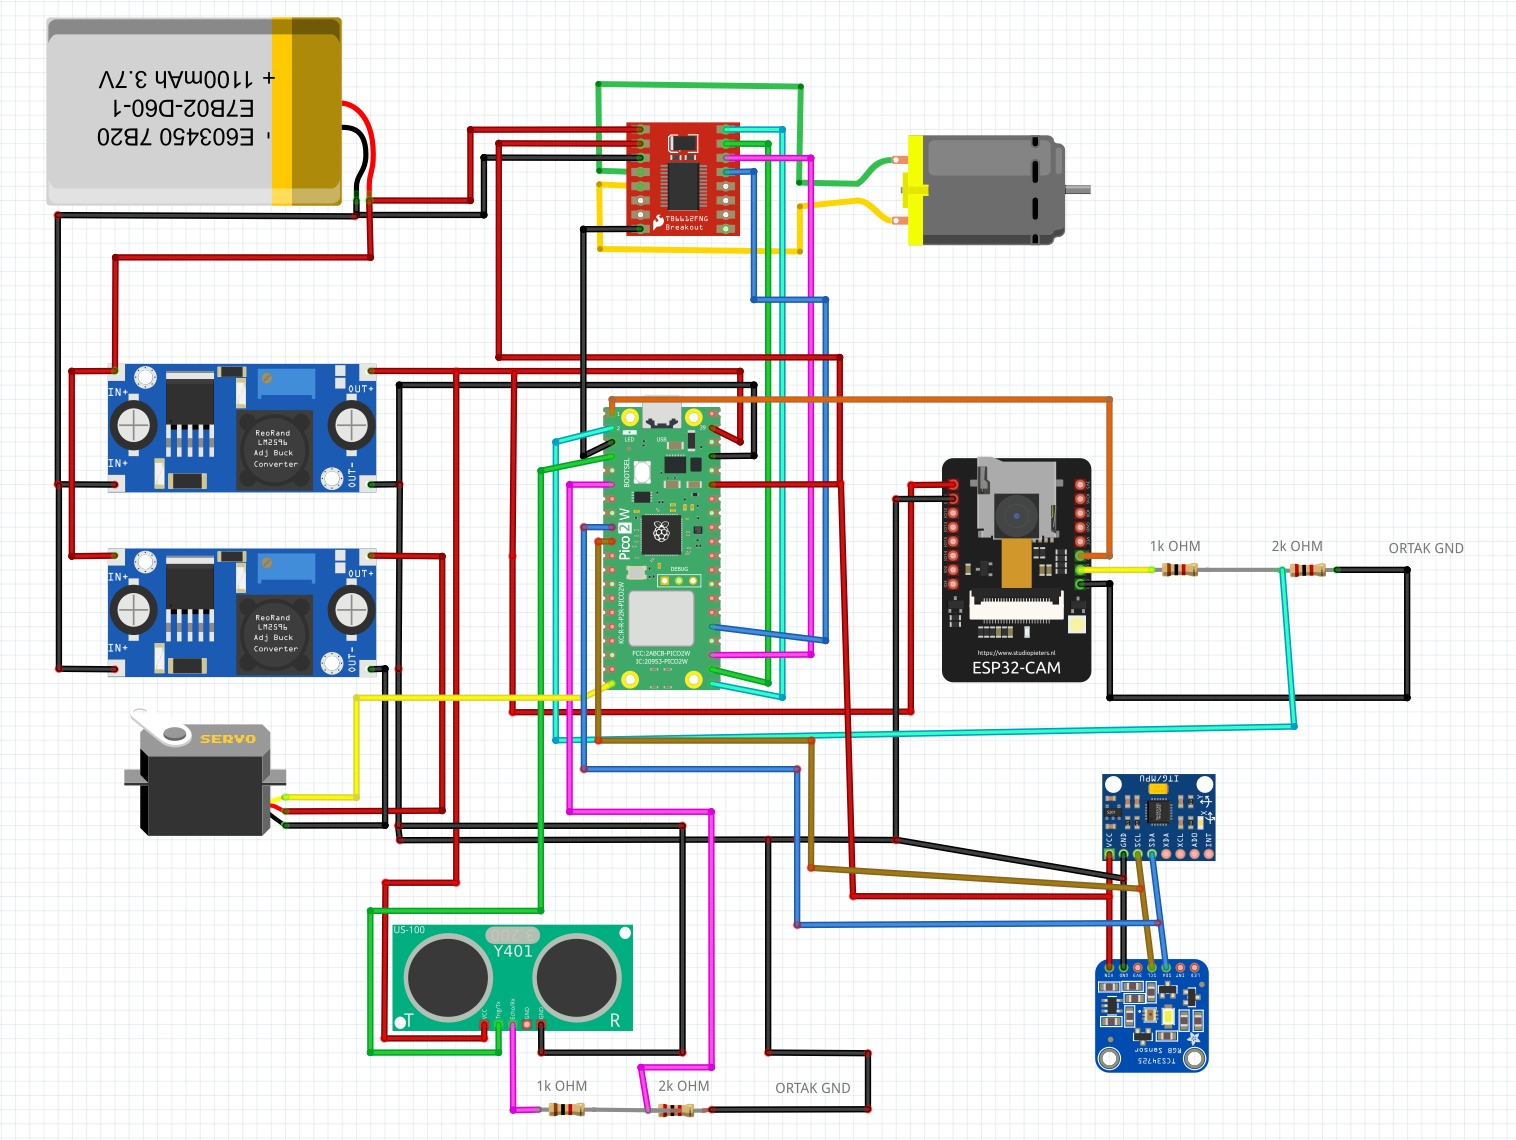
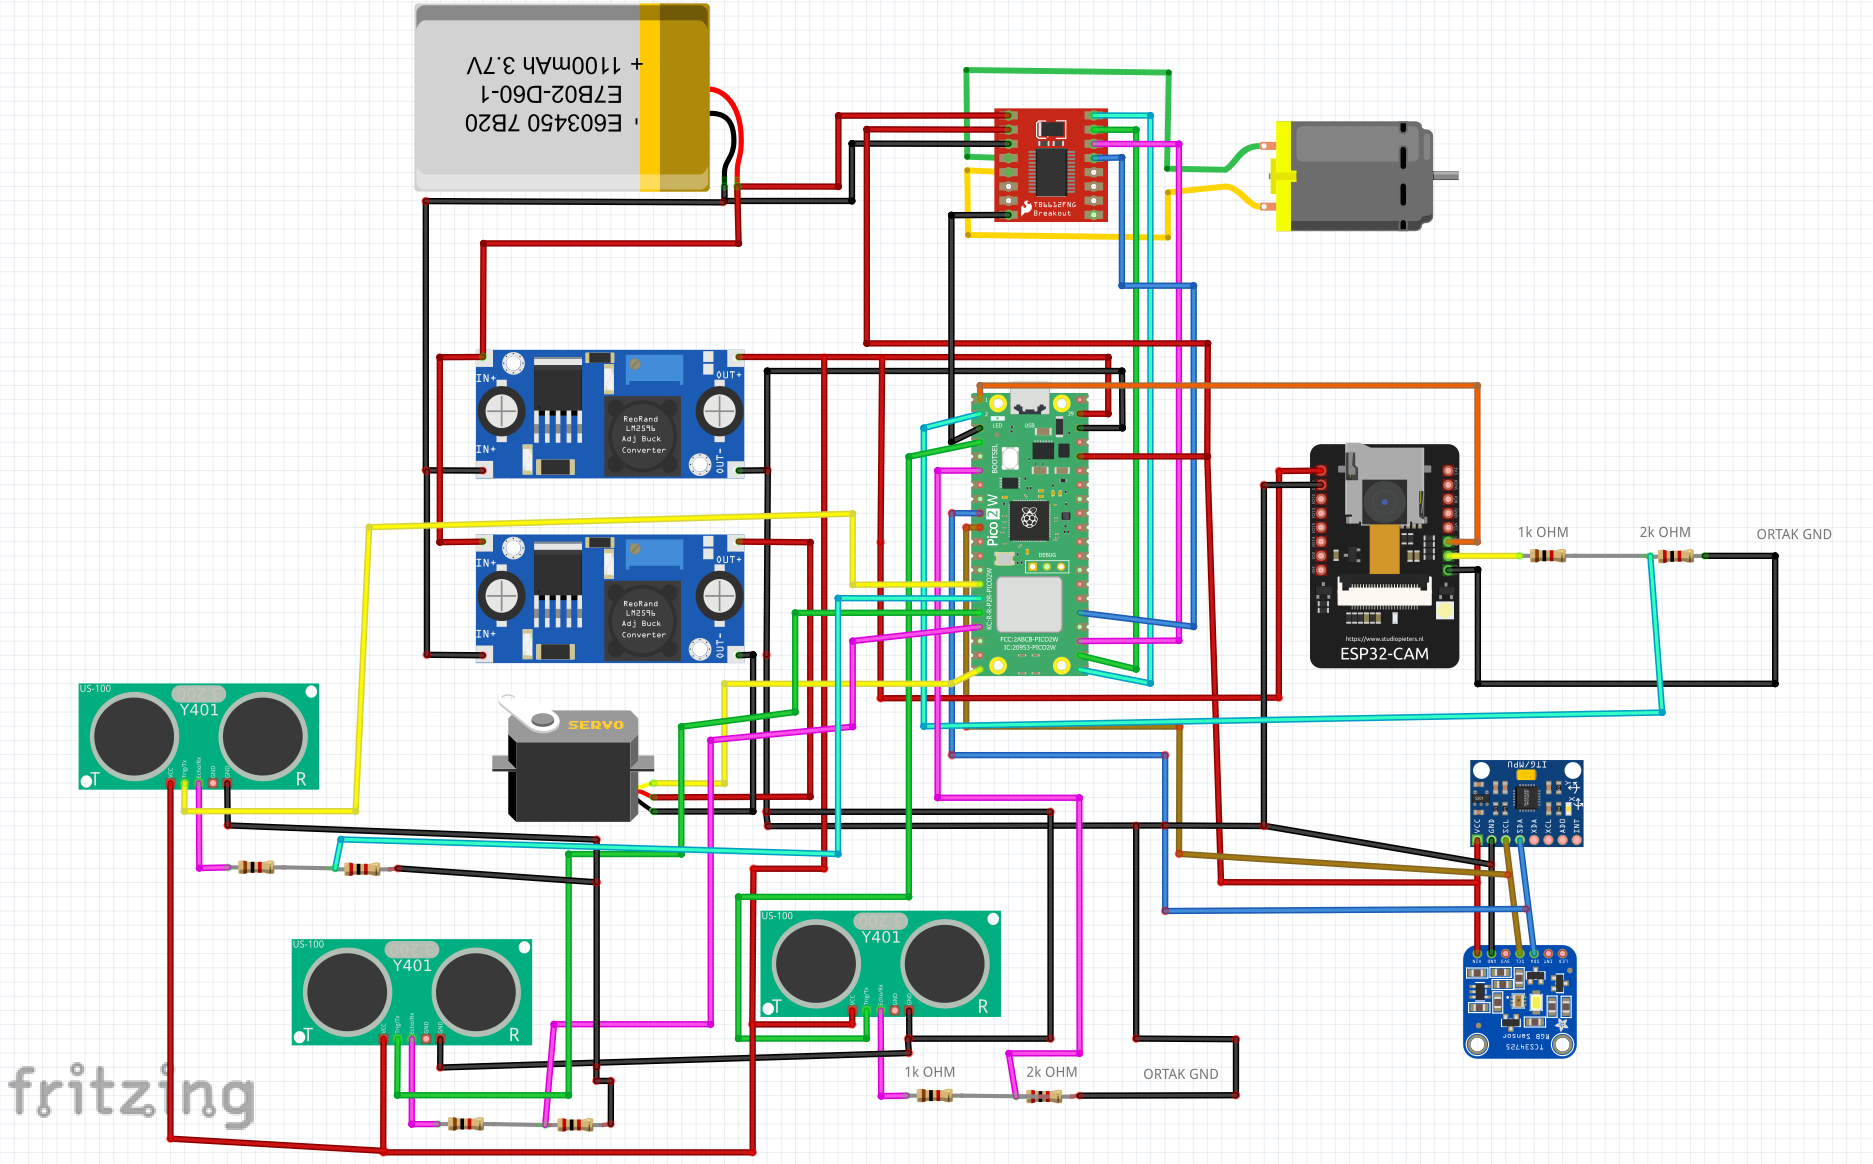
Scheme Update 2

diff --git a/schemes/README.md b/schemes/README.md
@@ -17,7 +17,7 @@ The wiring scheme is built around a Raspberry Pi Pico 2 W H controller. The Pico
 | TB6612FNG | <img src="tb6612fng.jpg" alt="TB6612FNG motor driver" width="140"> | 1 | Motor driver | Drives the 6 V DC motor using PWM and direction signals from the Pico. |
 | 6 V micro DC motor | <img src="6vmicrodc.jpg" alt="6 V micro DC motor" width="140"> | 1 | Drive motor | Provides propulsion for the vehicle through the drivetrain. |
 | HD-1440A servo | <img src="hd1440aservo.jpg" alt="HD-1440A servo" width="140"> | 1 | Steering servo | Controls the steering mechanism and receives PWM commands from the Pico. |
-| US-100 ultrasonic sensor | <img src="us100.jpg" alt="US-100 ultrasonic sensor" width="140"> | 2 | Distance sensor | Measures distance for wall detection, corner detection, and safety checks. Sensor 1 (front): GPIO 10/11. Sensor 2 (side/rear): GPIO 12/13. |
+| US-100 ultrasonic sensor | <img src="us100.jpg" alt="US-100 ultrasonic sensor" width="140"> | 3 | Distance sensor | Measures distance for wall detection, corner detection, and safety checks. Sensor 1: GPIO 10/11. Sensor 2: GPIO 12/13. Sensor 3: GPIO 2/3. |
 | MPU9250 | <img src="mpu9250.jpg" alt="MPU9250 IMU" width="140"> | 1 | IMU / gyro sensor | Provides yaw-rate data for heading correction, 90-degree turns, and recovery after obstacle passing. |
 | TCS34725 | <img src="tcs34725.jpg" alt="TCS34725 color sensor" width="140"> | 1 | Color sensor | Reference/backup color sensing module for future color-based improvements. |
 | LM2596 / RT3505 buck converter | <img src="rt3505.jpg" alt="Buck converter module" width="140"> | 2 | Voltage regulator | Steps battery voltage down for electronics and actuator rails. Output voltage must be checked before connecting modules. |
@@ -74,11 +74,17 @@ The Pico 2 W H converts its 5 V VBUS input to a clean 3.3 V rail through its onb
 | --- | --- | ---: | ---: | --- |
 | Pico 3V3 (OUT) | TCS34725 VCC | 3.3 V | ~5 mA | Includes onboard LED current |
 | Pico 3V3 (OUT) | MPU6050 VCC | 3.3 V | ~4 mA | Gyro and accelerometer combined |
-| Pico 3V3 (OUT) | US-100 #1 VCC (GPIO 10/11) | 3.3 V | ~20 mA | Peak during active measurement pulse |
-| Pico 3V3 (OUT) | US-100 #2 VCC (GPIO 12/13) | 3.3 V | ~20 mA | Peak during active measurement pulse |
 | Pico GND | All sensor GNDs | 0 V | — | Common reference for all I2C and UART signals |
 
-Total Pico 3.3 V rail load: approximately **50–55 mA** (well within the 300 mA regulator limit).
+Total Pico 3.3 V rail load: approximately **9–10 mA** (well within the 300 mA regulator limit).
+
+The three US-100 sensors are powered from **Buck 1 (5 V)**, not the Pico 3.3 V rail.
+
+| From | To | Voltage | Current | Notes |
+| --- | --- | ---: | ---: | --- |
+| Buck 1 (OUT+) | US-100 #1 VCC | 5.0 V | ~8 mA | Sensor 1 — GPIO 10/11 |
+| Buck 1 (OUT+) | US-100 #2 VCC | 5.0 V | ~8 mA | Sensor 2 — GPIO 12/13 |
+| Buck 1 (OUT+) | US-100 #3 VCC | 5.0 V | ~8 mA | Sensor 3 — GPIO 2/3 |
 
 ### 4. Signal and Data Lines
 
@@ -91,10 +97,12 @@ Total Pico 3.3 V rail load: approximately **50–55 mA** (well within the 300 mA
 | Pico GPIO 19 | TB6612FNG STBY | 3.3 V | Must be HIGH to enable motor output |
 | Pico GPIO 4 (SDA) | MPU6050 SDA / TCS34725 SDA | 3.3 V | Shared I2C data bus; 4.7 kΩ pull-up to 3.3 V recommended |
 | Pico GPIO 5 (SCL) | MPU6050 SCL / TCS34725 SCL | 3.3 V | Shared I2C clock bus; 4.7 kΩ pull-up to 3.3 V recommended |
-| Pico GPIO 10 (TRIG) | US-100 #1 TRIG | 3.3 V | 10 µs trigger pulse — Sensor 1 |
-| Pico GPIO 11 (ECHO) | US-100 #1 ECHO | 3.3 V | Echo return 3.3 V compatible — Sensor 1 |
-| Pico GPIO 12 (TRIG) | US-100 #2 TRIG | 3.3 V | 10 µs trigger pulse — Sensor 2 |
-| Pico GPIO 13 (ECHO) | US-100 #2 ECHO | 3.3 V | Echo return 3.3 V compatible — Sensor 2 |
+| Pico GPIO 10 (TRIG) | US-100 #1 TRIG | 3.3 V | 10 µs trigger pulse — Sensor 1; US-100 TRIG accepts 3.3 V |
+| US-100 #1 ECHO | 1 kΩ + 2 kΩ divider → Pico GPIO 11 | 5 V → 3.3 V | ECHO output is 5 V; resistor divider steps to 3.3 V for Pico. ~1.6 mA line current |
+| Pico GPIO 12 (TRIG) | US-100 #2 TRIG | 3.3 V | 10 µs trigger pulse — Sensor 2; US-100 TRIG accepts 3.3 V |
+| US-100 #2 ECHO | 1 kΩ + 2 kΩ divider → Pico GPIO 13 | 5 V → 3.3 V | ECHO output is 5 V; resistor divider steps to 3.3 V for Pico. ~1.6 mA line current |
+| Pico GPIO 2 (TRIG) | US-100 #3 TRIG | 3.3 V | 10 µs trigger pulse — Sensor 3; US-100 TRIG accepts 3.3 V |
+| US-100 #3 ECHO | 1 kΩ + 2 kΩ divider → Pico GPIO 3 | 5 V → 3.3 V | ECHO output is 5 V; resistor divider steps to 3.3 V for Pico. ~1.6 mA line current |
 | ESP32-CAM TX | 1 kΩ + 2 kΩ divider → Pico GPIO 1 (UART RX) | 5 V → 3.3 V | ESP32-CAM TX is 5 V logic. The resistor divider steps it to 3.3 V for the Pico RX pin. Line current ~1.6 mA. |
 | Pico GPIO 0 (UART TX) | ESP32-CAM RX | 3.3 V | Pico TX at 3.3 V is within ESP32-CAM input range; no level shifting needed |
 
@@ -103,9 +111,9 @@ Total Pico 3.3 V rail load: approximately **50–55 mA** (well within the 300 mA
 | Rail | Consumers | Typical | Peak |
 | --- | --- | ---: | ---: |
 | Battery direct — TB6612FNG VM | DC motor | 300 mA | 1.0 A |
-| Buck 1 — 5 V logic | Pico (100 mA) + ESP32-CAM (400 mA) + TB6612FNG VCC (5 mA) | 250 mA | 505 mA |
+| Buck 1 — 5 V logic | Pico (100 mA) + ESP32-CAM (400 mA) + TB6612FNG VCC (5 mA) + US-100 ×3 (24 mA) | 274 mA | 529 mA |
 | Buck 2 — servo rail | HD-1440A servo | 10 mA | 1.0 A |
-| Pico 3.3 V out | MPU6050 (4 mA) + TCS34725 (5 mA) + US-100 ×2 (40 mA) | 49 mA | 55 mA |
+| Pico 3.3 V out | MPU6050 (4 mA) + TCS34725 (5 mA) | 9 mA | 10 mA |
 | **Battery total** | **All rails** | **~560 mA** | **~2.5 A** |
 
 The 2S LiPo battery voltage (7.4–8.4 V) is passed directly to the TB6612FNG motor driver to maximize motor efficiency. Logic and servo voltages are regulated down to 5 V by LM2596 buck converters for stable, repeatable behavior across the battery discharge curve.